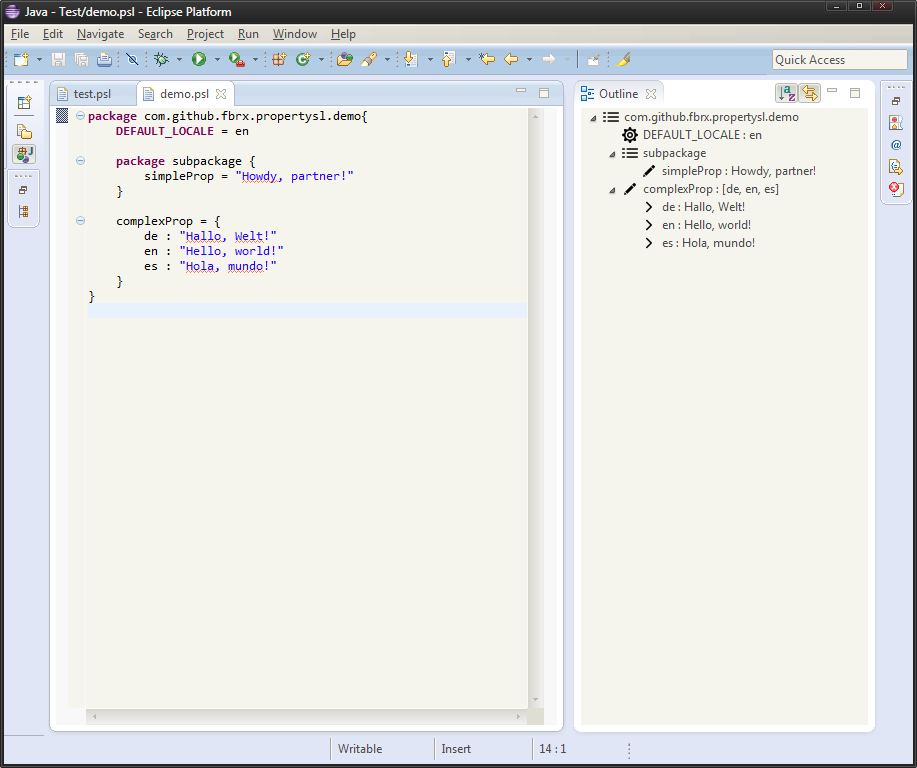
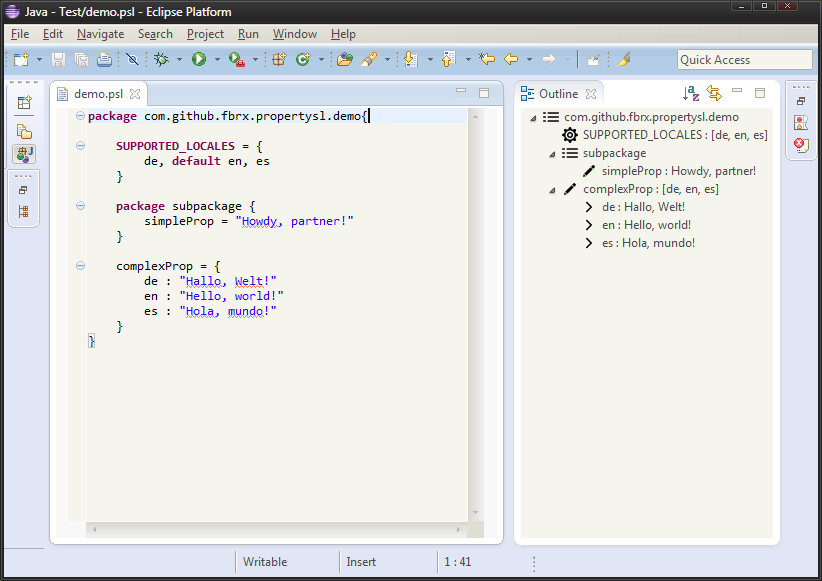
updated doc

Changed region(s): [[0.0, 0.0, 1.0, 1.0], [0.1521, 0.4337, 0.3345, 0.5577], [0.0912, 0.4337, 0.1217, 0.4647]]

diff --git a/README.md b/README.md
@@ -4,13 +4,16 @@ This repository contains a domain specific language for editing java property fi
 
 # PropertySL
 
-The defined DSL - PropertySL - let's you define properties and resource bundles in a concise way. It has support for namespaces, nesting and internationalization. The syntax is pretty straight forward to read and lets you define everything you need in one file.
+The defined domain specific language - named _PropertySL_ - let's you define properties and resource bundles in a concise way. It has support for namespaces, nesting and internationalization. The syntax is pretty straight forward to read and lets you define everything you need in one file.
 
 ## Syntax
 
 ```java
 package com.github.fbrx.propertysl.demo{
-	DEFAULT_LOCALE = en
+	
+	SUPPORTED_LOCALES = {
+		de, default en, es 
+	}
 	
 	package subpackage {
 		simpleProp = "Howdy, partner!"
@@ -26,7 +29,7 @@ package com.github.fbrx.propertysl.demo{
 
 ## Editor support
 
-The PropertySL was defined by means of the [Eclipse Xtext](http://www.eclipse.org/Xtext/) technology. Thus there is also first class (Eclipse based) editor support built-in.
+The PropertySL was defined by means of the [Eclipse Xtext](http://www.eclipse.org/Xtext/) and [Eclipse Xtend](http://www.eclipse.org/Xtend/) technologies. Thus there is also first class (Eclipse based) editor support built-in.
 ![PropertySL Editor](https://raw.github.com/fBrx/propertySL/master/editor.png)
 
 # Attributions
